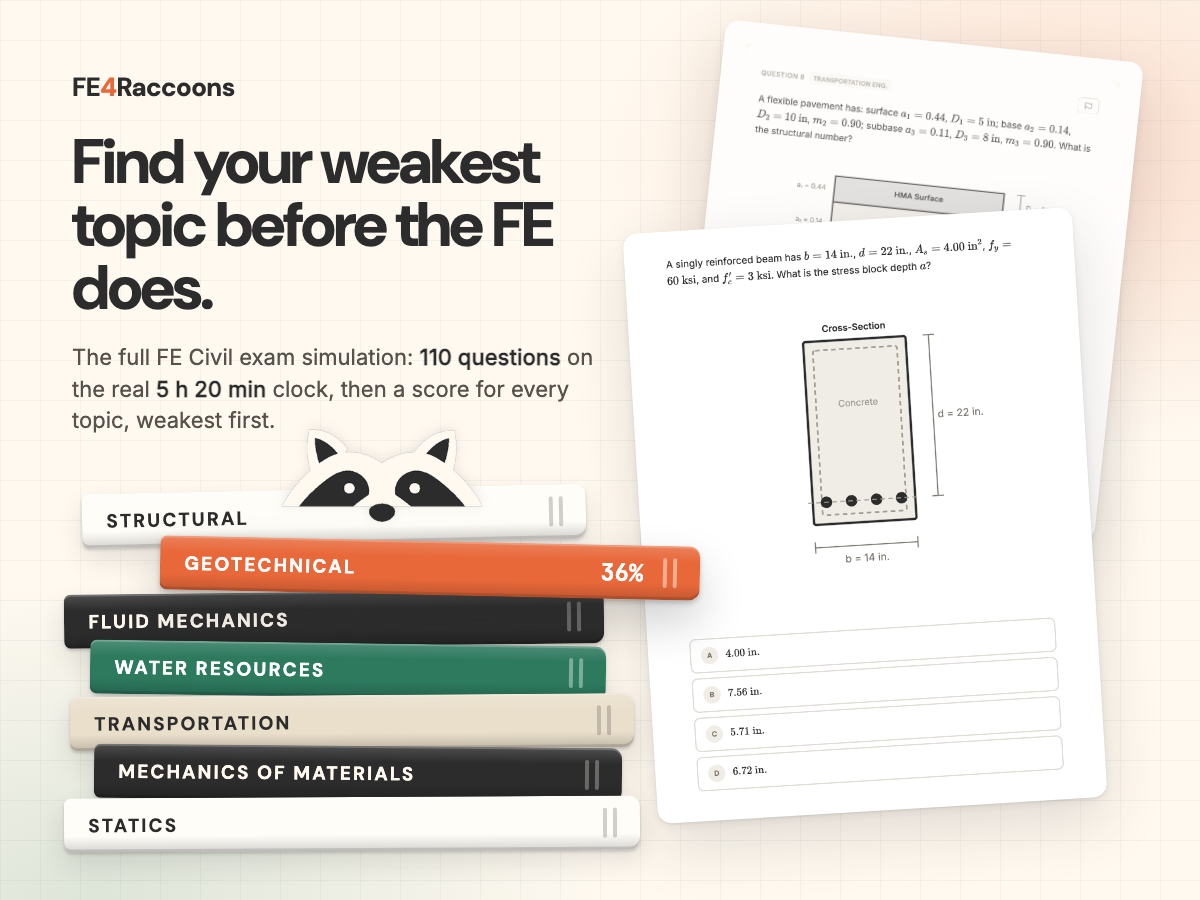
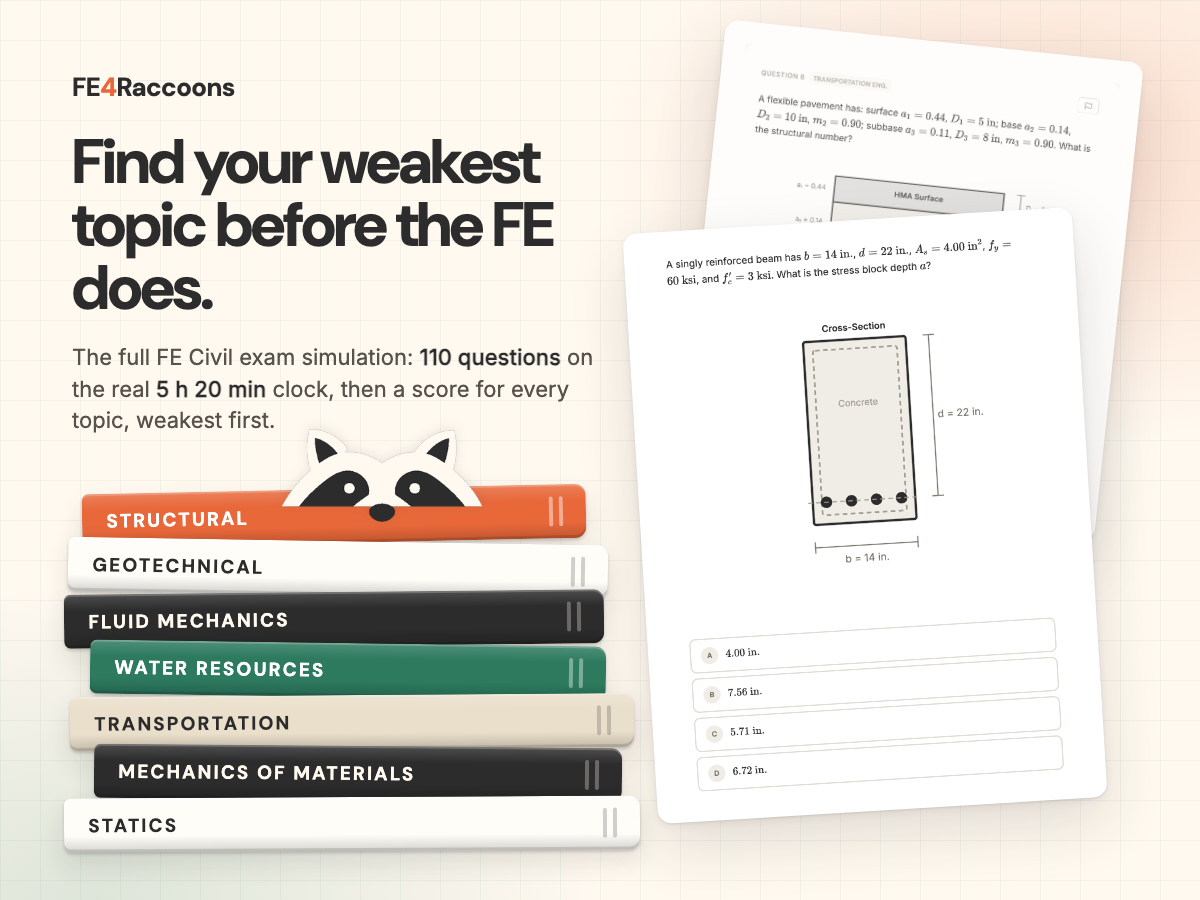
Exam simulation picture: even stack, ember top book behind the raccoon

Changed region(s): [[0.0617, 0.5289, 0.5858, 0.6844]]

diff --git a/scripts/sim-image/template.html b/scripts/sim-image/template.html
@@ -5,9 +5,9 @@
 <!-- Source of the exam simulation product pictures (public/exam-sim-*.png),
      rendered by scripts/gen-sim-image.mjs. The two question pages are real
      captures of the exam screen (the free preview: same screen and bank as the
-     paid sitting). The books are the topics as the results screen sorts them,
-     weakest first, with that one pulled out; 36% is the weakest score in the
-     example report on /exam-simulation. No overall score, no pass badge, no
+     paid sitting). The books are the topics the simulation scores. The top
+     book is ember so the raccoon's cream face and dark mask both stand out
+     against it. No overall score, no pass badge, no
      price: Google shows the price beside the picture, and a sample score
      alone reads as a promise. -->
 <link rel="preconnect" href="https://fonts.googleapis.com">
@@ -109,19 +109,6 @@
   }
   .book::before { right: calc(var(--bh) * 0.62); }
   .book::after { right: calc(var(--bh) * 0.42); }
-  .book .pct {
-    margin-left: auto;
-    margin-right: calc(var(--bh) * 1.05);
-    font-family: 'JetBrains Mono', monospace;
-    font-weight: 700;
-    letter-spacing: 0;
-    font-size: calc(var(--bf) * 1.25);
-  }
-  .book.pulled {
-    z-index: 2;
-    box-shadow: inset 0 2px 0 rgba(255,255,255,0.22), inset 0 -3px 0 rgba(0,0,0,0.12),
-      0 3px 5px rgba(44,44,44,0.24), 0 22px 44px rgba(44,44,44,0.22);
-  }
   .ch { --c: #2C2C2C; --t: #FFF9F0; --band: rgba(255,249,240,0.30); }
   .em { --c: #E8683A; --t: #FFFFFF; --band: rgba(255,255,255,0.45); }
   .fo { --c: #2D7A5F; --t: #FFFFFF; --band: rgba(255,255,255,0.38); }
@@ -182,8 +169,8 @@
 
   <div class="stack">
     <img class="peek" src="raccoon-peek.png" alt="">
-    <div class="book cr" style="--w:84;--x:18;--r:-1.2">Structural</div>
-    <div class="book em pulled" style="--w:90;--x:96;--r:1.2">Geotechnical<span class="pct">36%</span></div>
+    <div class="book em" style="--w:84;--x:18;--r:-1.2">Structural</div>
+    <div class="book cr" style="--w:90;--x:4;--r:0.9">Geotechnical</div>
     <div class="book ch" style="--w:90;--x:0;--r:-0.6">Fluid Mechanics</div>
     <div class="book fo" style="--w:86;--x:26;--r:0.8">Water Resources</div>
     <div class="book sa" style="--w:94;--x:6;--r:-0.4">Transportation</div>
